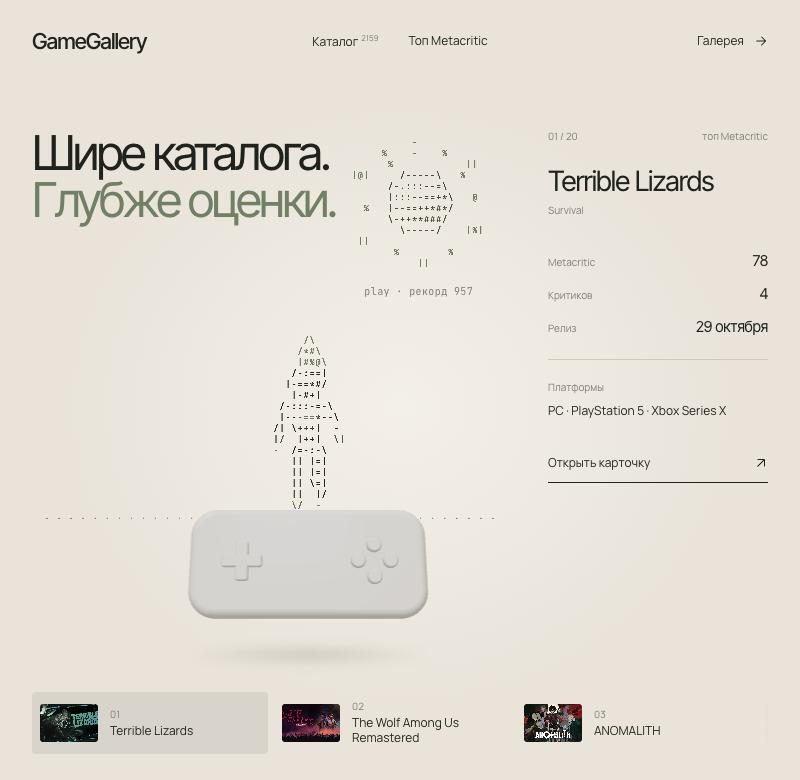
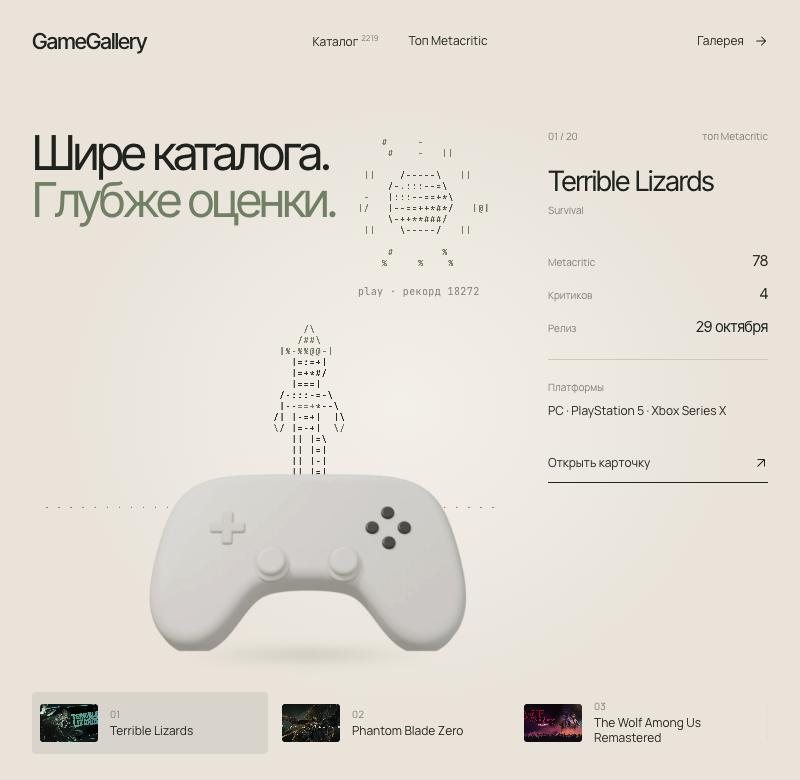
README: the look of the site, fresh shots; no license for now
Header in the site's identity: GameGallery, the slogan, ink and sage badges.
Palette and type as swatches, the stick pad on the preview, the run with
W S R keycaps and the phone's buttons, the card's tabs. LICENSE removed.

diff --git a/README.md b/README.md
@@ -1,23 +1,34 @@
-<h1 align="center">GameAnalytics</h1>
+<p align="center">
+  <img src="docs/design/welcome.jpg" alt="Главная GameGallery: слоган «Шире каталога. Глубже оценки.», ASCII-маг на молочном геймпаде со стиками, солнце-кнопка play и топ Metacritic" width="760">
+</p>
+
+<h1 align="center">GameGallery</h1>
+
+<p align="center"><b>Шире каталога. Глубже оценки.</b></p>
 
 <p align="center">
-  Аналитика выходящих видеоигр по данным Metacritic: новинки каждый час, сводки отзывов критиков и игроков,
-  суть игры, похожие игры и разбор летсплеев с YouTube.
+  Аналитика выходящих видеоигр по данным Metacritic: новинки каждый час, сводки отзывов критиков и игроков,<br>
+  суть и профиль игры, похожие игры и разбор летсплеев с YouTube. Всё — в тихой айдентике «тушь по бумаге».
 </p>
 
 <p align="center">
-  <img alt="Python" src="https://img.shields.io/badge/Python-3.12-3776AB?logo=python&logoColor=white">
-  <img alt="FastAPI" src="https://img.shields.io/badge/FastAPI-async-009688?logo=fastapi&logoColor=white">
-  <img alt="PostgreSQL" src="https://img.shields.io/badge/PostgreSQL-16%20%2B%20pgvector-4169E1?logo=postgresql&logoColor=white">
-  <img alt="Redis" src="https://img.shields.io/badge/Redis-7-DC382D?logo=redis&logoColor=white">
-  <img alt="React" src="https://img.shields.io/badge/React-18%20%2B%20TypeScript-61DAFB?logo=react&logoColor=black">
-  <img alt="Gemini" src="https://img.shields.io/badge/Gemini-3.5%20Flash--Lite-8E75B2?logo=googlegemini&logoColor=white">
-  <img alt="Docker" src="https://img.shields.io/badge/Docker-Compose-2496ED?logo=docker&logoColor=white">
-  <img alt="Tests" src="https://img.shields.io/badge/tests-117%20unit%20%2B%2011%20integration-2E7D32">
+  <a href="#возможности">возможности</a> ·
+  <a href="#дизайн">дизайн</a> ·
+  <a href="#архитектура">архитектура</a> ·
+  <a href="#как-это-работает">как это работает</a> ·
+  <a href="#запуск">запуск</a>
 </p>
 
 <p align="center">
-  <img src="docs/design/arcade-run.gif" alt="Аркадный забег на главной: ASCII-маг прыгает через препятствия, геймпад внизу" width="445">
+  <img alt="Python" src="https://img.shields.io/badge/Python-3.12-7c8a70?logo=python&labelColor=22261f&color=7c8a70&logoColor=ece7df&style=flat-square">
+  <img alt="FastAPI" src="https://img.shields.io/badge/FastAPI-async-7c8a70?logo=fastapi&labelColor=22261f&color=7c8a70&logoColor=ece7df&style=flat-square">
+  <img alt="PostgreSQL" src="https://img.shields.io/badge/PostgreSQL-16%20%2B%20pgvector-7c8a70?logo=postgresql&labelColor=22261f&color=7c8a70&logoColor=ece7df&style=flat-square">
+  <img alt="Redis" src="https://img.shields.io/badge/Redis-7-7c8a70?logo=redis&labelColor=22261f&color=7c8a70&logoColor=ece7df&style=flat-square">
+  <img alt="React" src="https://img.shields.io/badge/React-18%20%2B%20TypeScript-7c8a70?logo=react&labelColor=22261f&color=7c8a70&logoColor=ece7df&style=flat-square">
+  <img alt="three.js" src="https://img.shields.io/badge/three.js-ASCII%20shader-7c8a70?logo=threedotjs&labelColor=22261f&color=7c8a70&logoColor=ece7df&style=flat-square">
+  <img alt="Gemini" src="https://img.shields.io/badge/Gemini-3.5%20Flash--Lite-7c8a70?logo=googlegemini&labelColor=22261f&color=7c8a70&logoColor=ece7df&style=flat-square">
+  <img alt="Docker" src="https://img.shields.io/badge/Docker-Compose-7c8a70?logo=docker&labelColor=22261f&color=7c8a70&logoColor=ece7df&style=flat-square">
+  <img alt="Tests" src="https://img.shields.io/badge/tests-117%20unit%20%2B%2011%20integration-7c8a70?labelColor=22261f&color=7c8a70&logoColor=ece7df&style=flat-square">
 </p>
 
 ---
@@ -45,7 +56,7 @@
   по четверти в сутки. Исследование и путь от гипотезы — [docs/game-profile.md](docs/game-profile.md).
 - **Deep analyze.** По кнопке модель находит популярное прохождение на YouTube, смотрит около 20 минут его отрезков
   по ссылке и выделяет факты, которых нет в описании магазина. Каждый факт — ссылка на нужную секунду видео.
-- **Свой визуальный язык.** Светлая бумажная айдентика, ASCII-маг, которым управляет 3D-геймпад, аркадная игра на
+- **Свой визуальный язык.** Светлая бумажная айдентика, ASCII-маг на 3D-геймпаде со стиками, аркадная игра на
   главной и карточка игры с диаграммами вместо стены текста. Подробно — в разделе [Дизайн](#дизайн).
 - **DevPanel.** Работа пайплайна в реальном времени: какой узел активен, сколько запросов, где ошибки. Там же —
   сколько посетителей на сайте сейчас и за последние дни; ручной запуск прохода — по паролю.
@@ -57,6 +68,9 @@
 ## Содержание
 
 - [Дизайн](#дизайн)
+  - [Главная — знакомство с маскотом](#главная--знакомство-с-маскотом)
+  - [Аркадный забег](#аркадный-забег)
+  - [Карточка игры и остальное](#карточка-игры-и-остальное)
 - [Архитектура](#архитектура)
 - [Как это работает](#как-это-работает)
   - [Поиск новых игр](#поиск-новых-игр)
@@ -84,43 +98,82 @@
 
 ## Дизайн
 
-Тихая айдентика «тушь по бумаге»: тёплая бумага `#ece7df`, глубокие чернила `#22261f`, шалфейный акцент `#7c8a70`,
-волосяные линии вместо плашек. Шрифты: Inter Tight для заголовков, Manrope для текста, JetBrains Mono для цифр и ASCII.
+Тихая айдентика «тушь по бумаге»: тёплая бумага, глубокие чернила, шалфейный акцент и волосяные линии вместо
+плашек. Цвет появляется только там, где он что-то значит: в оценках и диаграммах.
+
+<table>
+<tr>
+<td valign="top" width="50%">
+
+| | Токен | Где |
+|---|---|---|
+| <img src="https://img.shields.io/badge/%20-%20-ece7df?style=flat-square" width="28" height="16" alt="#ece7df"> | `--paper` `#ece7df` | фон, поля, кнопки |
+| <img src="https://img.shields.io/badge/%20-%20-22261f?style=flat-square" width="28" height="16" alt="#22261f"> | `--ink` `#22261f` | текст, ASCII, обводки |
+| <img src="https://img.shields.io/badge/%20-%20-7c8a70?style=flat-square" width="28" height="16" alt="#7c8a70"> | `--accent` `#7c8a70` | вторая строка слогана, шляпа мага |
+| <img src="https://img.shields.io/badge/%20-%20-d6d0c5?style=flat-square" width="28" height="16" alt="#d6d0c5"> | `--line` `#d6d0c5` | волосяные линии |
+| <img src="https://img.shields.io/badge/%20-%20-8b877e?style=flat-square" width="28" height="16" alt="#8b877e"> | `--muted` `#8b877e` | подписи, вторичный текст |
+
+</td>
+<td valign="top" width="50%">
+
+| Шрифт | Роль |
+|---|---|
+| **Inter Tight** | заголовки, крупные цифры |
+| **Manrope** | основной текст |
+| `JetBrains Mono` | оценки, счёт, ASCII |
+
+Диаграммы: <img src="https://img.shields.io/badge/%20-%20-2f8a5b?style=flat-square" width="28" height="16" alt="#2f8a5b"> хвалят · <img src="https://img.shields.io/badge/%20-%20-b9b2a6?style=flat-square" width="28" height="16" alt="#b9b2a6"> смешанно · <img src="https://img.shields.io/badge/%20-%20-c0532f?style=flat-square" width="28" height="16" alt="#c0532f"> ругают — расходящаяся шкала,
+проверенная на различимость при дальтонизме.
+
+</td>
+</tr>
+</table>
 
 Слоган — **«Шире каталога. Глубже оценки.»** Сервис не подбирает игру, а собирает аналитику: широта — тысячи игр
 каталога, глубина — разбор отзывов, суть и профиль каждой из них.
 
-<p align="center">
-  <img src="docs/design/welcome.jpg" alt="Главная: слоган «Шире каталога. Глубже оценки.», ASCII-маг на белом геймпаде, солнце-кнопка Play, топ Metacritic справа и лентой внизу" width="720">
-</p>
-
-**Главная — знакомство с маскотом.**
+### Главная — знакомство с маскотом
 
 - **ASCII-маг.** Маленький волшебник из Blender (риг, шесть клипов) рендерится в реальном времени и проходит через
   ASCII-шейдер: чем темнее клетка, тем плотнее символ, силуэт обведён линиями `| - / \`, шляпа тонирована
   шалфеем.
-- **Геймпад как у старых приставок.** Плоский, весь молочно-белый: крестовину и четыре кнопки выдают только тени.
-  Кнопки нажимаются мышкой и пальцем; на телефоне тап засчитывается ближайшей кнопке в радиусе 44 px. Мимо кнопок
-  геймпад можно потянуть и повернуть, чтобы рассмотреть 3D-модель; отпущенный, он мягко возвращается на место.
+- **Молочный геймпад со стиками.** Весь белый: крестовину, кнопки и стики выдают только тени. Кнопки нажимаются
+  мышкой и пальцем, стики оттягиваются и пружинят обратно (левый гоняет мага). Мимо них геймпад можно потянуть и
+  повернуть, чтобы рассмотреть модель. Геймпад только для превью: в забеге он уходит, управлять им не нужно.
 - **Маг реагирует.** Бегает, прыгает, приседает, машет, танцует и бросает фаербол. Фаербол пролетает через всю
   страницу, поверх панели и ленты. Если мага не трогать, он сам изредка машет или танцует.
-- **Солнце — это кнопка Play.** Шар с лучами в правом верхнем углу сцены нарисован тем же шейдером, что и маг, и
-  медленно вращается.
+- **Солнце — это кнопка play.** Шар с лучами в правом верхнем углу сцены нарисован тем же шейдером, что и маг,
+  медленно вращается и ускоряется под курсором. Под ним — подпись «play · рекорд».
 - **Справа и внизу — топ-20 Metacritic.** Ленту можно листать колесом и перетаскиванием, выбранная игра описана
   в боковой панели.
 
+### Аркадный забег
+
+<p align="center">
+  <img src="docs/design/arcade-run.gif" alt="Забег на компьютере: ASCII-маг прыгает через шипы и бросает фаербол, под сценой клавиши W, S и R подсвечиваются при нажатии" width="442">
+</p>
+
+По нажатию на солнце надписи уходят, сцена занимает страницу, а мимо мага едет ASCII-мир: холмы, облака, земля.
+Действий всего три — **прыжок, присед и огонь**, бежать вперёд и назад не нужно.
+
 <details>
-<summary><b>Аркадный забег: как устроена игра на главной</b></summary>
+<summary><b>Управление на компьютере и телефоне, монстры и счёт</b></summary>
 
 <br>
 
-По нажатию на солнце надписи уходят, сцена занимает страницу, а мимо мага едет ASCII-мир: холмы, облака, земля.
-Интерфейс подстраивается под устройство:
+<p align="center">
+  <img src="docs/design/phone.jpg" alt="Телефон: слева превью с геймпадом, справа забег с кнопками ▲ прыжок и ▼ присесть слева и ✦ огонь справа" width="560">
+</p>
 
-- **Компьютер.** Геймпад в забеге скрыт, под сценой — клавиши W A S D и R, которые подсвечиваются при нажатии
-  (и нажимаются мышкой).
-- **Телефон.** Управление — тот же геймпад, неподвижный, без поворота. Маг и мир рисуются мельче (сетка 5×9),
-  чтобы на узком экране было видно, что едет навстречу.
+| | Компьютер | Телефон |
+|---|---|---|
+| прыжок | `W`, `Пробел`, `↑` | кнопка ▲ слева, тап по сцене |
+| пригнуться (в воздухе — быстрое падение) | `S`, `↓` | кнопка ▼ слева |
+| огонь | `R`, `F`, клик по сцене | крупная кнопка ✦ справа |
+| выйти / ещё раз | `Esc` / `Enter` | `[esc] выйти` в углу |
+
+На компьютере под сценой три клавиши, которые подсвечиваются при нажатии и нажимаются мышкой. На телефоне кнопки
+под большими пальцами, а маг и мир рисуются мельче (сетка 5×9), чтобы было видно, что едет навстречу.
 
 | Что встречается | Что делать |
 |---|---|
@@ -130,18 +183,17 @@
 | брёвна на цепях | только пригнуться |
 | монеты дугой над препятствиями | собрать прыжком |
 
-- **Управление.** Пробел, W или ↑ — прыжок; S или ↓ — пригнуться (в воздухе — быстрое падение); A и D — шаг
-  назад и вперёд; R, F или клик — огонь; Esc — выйти, Enter — ещё раз. На телефоне — крестовина и кнопки геймпада.
 - **Счёт.** Растёт с пройденным путём, +100 за монстра, +25 за монету.
 - **Сложность.** Три жизни, мир ускоряется до 2,5×. Средний забег — около двух минут. Рекорд хранится в браузере.
 - **Мир.** Рисуется на 2D-холсте той же сеткой и теми же чернилами, что и маг, поэтому всё читается как один
   рисунок.
 - **Плавность на телефонах.** Мир выводится строками целиком, а не по символу (около 40 вызовов отрисовки на кадр
-  вместо 350); холсты рисуются в 1,5× плотности. Геймпад перерисовывается, только пока пружинит нажатая кнопка, не
-  чаще 30 раз в секунду, и останавливается, как только движение меньше трети пикселя: прыжок стоит около 10 его
-  кадров вместо 48.
+  вместо 350); холсты рисуются в 1,5× плотности. Геймпад на превью перерисовывается, только пока пружинит кнопка
+  или стик, и не чаще 30 раз в секунду.
 
 </details>
+
+### Карточка игры и остальное
 
 <details>
 <summary><b>Карточка игры: вкладки и диаграммы</b></summary>
@@ -150,6 +202,10 @@
 
 Длинная лента карточки разделена на вкладки «Обзор / Профиль / Летсплей / Отзывы». Одновременно открыт один раздел,
 вкладки прилипают под шапкой и записываются в адрес (`#reviews`). Похожие игры всегда закрывают страницу.
+
+<p align="center">
+  <img src="docs/design/card.jpg" alt="Шапка карточки: название, Metascore и Userscore, оценки по платформам, теги и вкладки Обзор, Профиль, Летсплей, Отзывы" width="720">
+</p>
 
 <p align="center">
   <img src="docs/design/critics-players.jpg" alt="Критики и игроки: линия согласия оценок, полосы долей хвалят / смешанно / ругают, плюсы и минусы" width="720">
@@ -200,7 +256,7 @@
   прокрутке и смене вкладки. Отключается, если в системе включено уменьшение движения.
 - **Без синих рамок на телефоне.** Долгое нажатие на геймпад, кнопки и диаграммы не выделяет их и не открывает
   меню.
-- **Лёгкая загрузка.** 3D-модели сжаты meshopt: маг 237 КБ, геймпад 82 КБ, gzip на nginx. Сцена грузится лениво,
+- **Лёгкая загрузка.** 3D-модели сжаты meshopt: маг 237 КБ, геймпад 353 КБ, gzip на nginx. Сцена грузится лениво,
   а до её загрузки показана картинка геймпада.
 
 </details>
@@ -848,5 +904,4 @@ stand/                   тестовый стенд: compose, stand.sh, chaos.p
 research/                наблюдатели и замеры API Metacritic
 docs/                    отчёты экспериментов; design/ — картинки раздела «Дизайн»
 design/                  исходник 3D-сцен в Blender
-LICENSE                  все права защищены, © 2026 GameGallery
 ```
